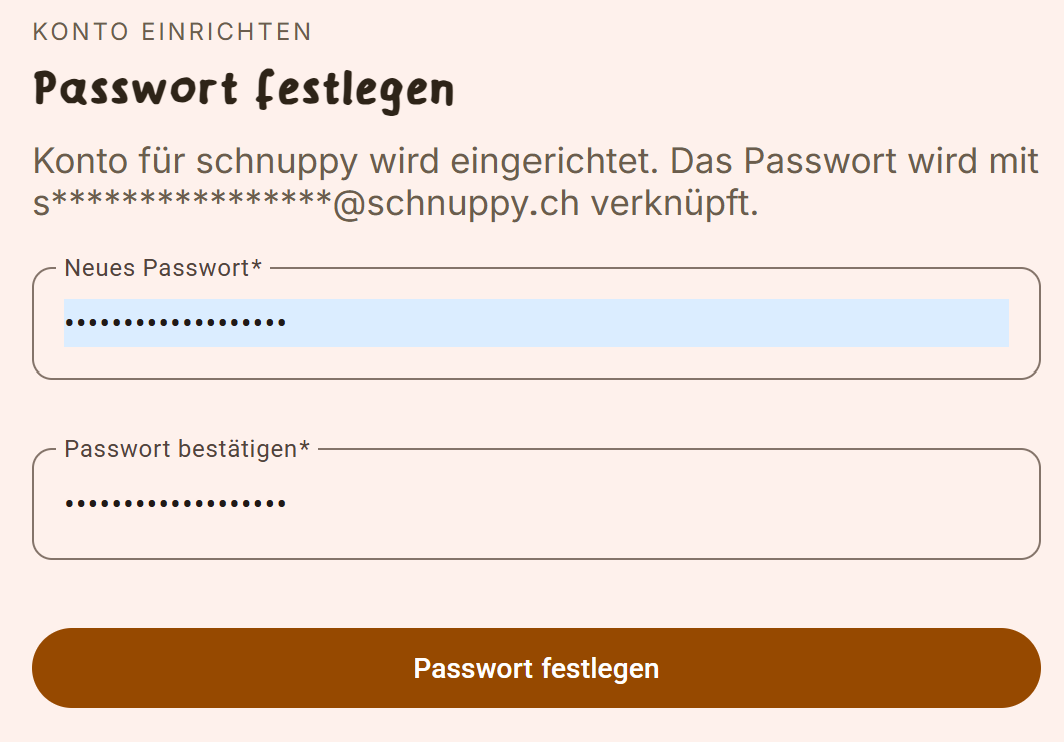
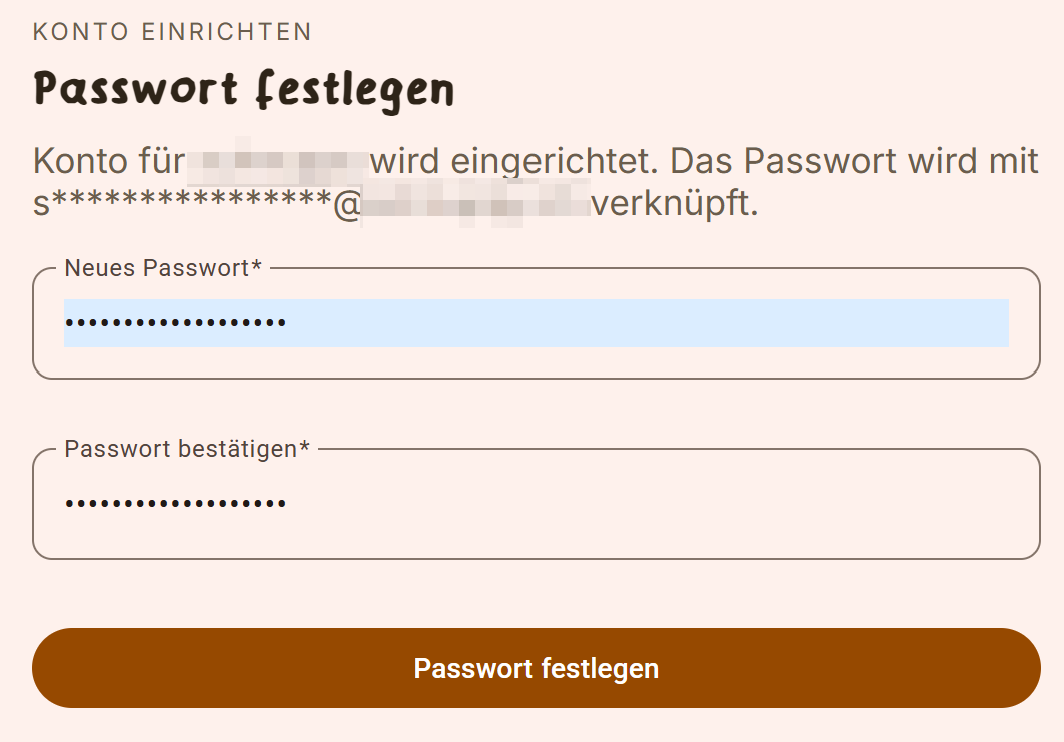
docs: update calendar invitations documentation and add new media assets

Changed region(s): [[0.1861, 0.186, 0.5583, 0.31]]

diff --git a/docs/architecture/calendar-invitations.md b/docs/architecture/calendar-invitations.md
@@ -350,6 +350,100 @@ lever to pull before assuming it's a server regression.
   this narrow cosmetic duplicate for silently dropping real invitations in
   the common case.
 
+- **Attendee responses only work via the emailed RSVP link — native
+  client Accept/Decline is deliberately suppressed.** `InvitationIcsService`
+  sets `Attendee.Rsvp = false` (not `true`) on every generated invitation.
+  Per RFC 5545, `RSVP=TRUE` is what makes a mail/calendar client (eM Client,
+  Outlook, Apple Mail) show its own native Accept/Decline prompt on an
+  invite. That native path sends an ICS `METHOD:REPLY` straight to the
+  organizer's own inbox — Processity has no inbound-email processing
+  anywhere (see the `inbox/` stub above), so any response given that way
+  was silently and permanently lost, with no error surfaced to either
+  party. `RSVP=FALSE` suppresses the native prompt so the emailed
+  Accept/Tentative/Decline links — the one path actually wired into
+  `RespondToInvitationByTokenCommandHandler` → `BridgeInvitationResponseToCalendarHandler`
+  → `AttendeeResponseChangedEventHandler` — are the only option offered.
+  Discovered 2026-08-29 debugging a real invitee response that never
+  showed up anywhere; that same investigation also fixed three
+  independent bugs blocking the *link* path itself, all now resolved:
+  - `PublicWebApp:BaseUrl` config key was never set anywhere, so the RSVP
+    link in the invitation email always rendered empty. (Superseded —
+    see the redesign note below: this became `PublicCalendarApp:BaseUrl`
+    pointing at a dedicated app, not the big Angular webapp.)
+  - The anonymous RSVP endpoints had no way to resolve which tenant schema
+    to query (no `[AllowAnonymous]`, and ApiGateway's
+    `AuthHeaderExtractionMiddleware` strips `X-Tenant-Identifier` from
+    external requests by design) — fixed via a new,
+    intentionally-non-trust-boundary `X-Public-Invitation-Tenant` header
+    read by `DirectTenantResolutionStrategy`.
+  - `RespondToInvitationCommandHandler`/`RespondToInvitationByTokenCommandHandler`/
+    `RespondToAppointmentInvitationCommandHandler` published
+    `InvitationResponseReceivedEvent` via bare `PublishAsync`, but both
+    subscribers (organizer notification, and the Calendar PARTSTAT bridge)
+    require the `AuthenticatedEvent<T>` envelope — every response was
+    silently crashing both subscribers. Fixed by switching to
+    `PublishWithAuthAsync`.
+  - Separately (Processity.Calendar): `AttendeeResponseChangedEventHandler`
+    updated `CalendarItemAttendee.PartStat` but never bumped the parent
+    `CalendarItem.UpdatedAt`, which `CalendarService.ComputeETag`/
+    `ComputeCollectionCTag` are keyed on — so even a successful PARTSTAT
+    update never changed the CalDAV ctag/ETag, and the organizer's own
+    CalDAV client (eM Client) never re-fetched the item to show it.
+  Building real inbound REPLY-email processing (IMAP polling, ICS
+  `METHOD:REPLY` parsing, matching back to `Invitation` by UID+attendee
+  email) was considered and deliberately rejected, 2026-08-29: it would
+  mean holding a mailbox credential/token per tenant, plus asking users to
+  configure IMAP access — too much operational and setup burden for what
+  it buys. **`RSVP=FALSE` does not fully solve this either** — confirmed
+  2026-08-29 by decoding a real sent ICS (`RSVP=FALSE` genuinely present)
+  and observing eM Client still show its native Accept/Decline UI anyway.
+  eM Client displays that prompt for any `ATTENDEE` line addressed to the
+  recipient regardless of the RSVP flag — unlike Outlook/Apple Mail, which
+  do respect `RSVP=FALSE` and hide it. Kept `RSVP=FALSE` anyway (reverting
+  to `TRUE` would only remove the suppression that *does* work for
+  compliant clients, with no upside). **Net state, permanent unless IMAP
+  ingestion is revisited**: eM Client's own native buttons always silently
+  swallow the response with no error to either party; the emailed
+  Accept/Tentative/Decline links are the only response path guaranteed to
+  work, for every mail client.
+- **RSVP redesigned to three direct email buttons + a dedicated
+  confirmation-only app, 2026-08-29.** Originally the email had one "Zu-
+  oder absagen" link to a full Angular page (in `Processity.WebApp.Angular`,
+  behind the embedded shell) that itself showed Accept/Decline/Tentative
+  buttons plus a note/propose-new-time form. Replaced because (a) a link
+  to a page-with-buttons requires an extra click past what the invitee's
+  mail client already renders for other invites, and (b) it lived inside
+  the big monorepo webapp for no functional reason. Now:
+  - The invitation email has three separate plain `<a href>` buttons
+    (Accept/Tentative/Decline in `DefaultTemplateSeeder.MeetingInvitationBody`,
+    placeholders `{AcceptLink}`/`{TentativeLink}`/`{DeclineLink}`), each
+    going straight to `{PublicCalendarApp:BaseUrl}/respond/{tenantId}/{token}?status=accepted|tentative|declined`.
+    Built in `InvitationSentNotificationHandler.BuildTemplateValues`.
+  - `PublicCalendarApp:BaseUrl` is `calendar.processity.ch` (`.dev`/
+    `.localdev`/`-uat.ch` per environment) — a small standalone Angular
+    app, `Processity.Calendar/webapp/projects/invitation-response`, with
+    its own `.docker/webapp-invitation-response/{dev,prod}` deploy tier
+    and Gitea workflows, entirely separate from
+    `Processity.WebApp.Angular` and from the `booking` project in this
+    same `webapp/` workspace.
+  - That app has no router, no forms, no interactive buttons of its own.
+    On load it parses `/respond/{tenantId}/{token}` + `?status=`, fires
+    the existing `POST communications-public/v1.0/invitations/respond`
+    once via plain `fetch()` (with the `X-Public-Invitation-Tenant`
+    header), and renders a static "danke für Ihre Antwort" / error
+    message. Nothing else. The note/propose-alternate-time capability the
+    old page had is gone — `RespondToInvitationByTokenCommandHandler`
+    still accepts `ProposedStartTime`/`ProposedEndTime`/`Note` on the API
+    contract, but no client currently sends them.
+  - `api.{env}` is derived client-side from `calendar.{env}` (hostname
+    string substitution) rather than being a build-time config — same
+    app image works unmodified across dev/prod.
+  - Requires `calendar.processity.ch` (etc.) in **both** ApiGateway's own
+    `Cors:AllowedOrigins` (`.docker/{env}/appsettings.json` — this is what
+    actually gates the browser's `fetch()`, since the call lands on
+    `api.processity.ch` i.e. the gateway) **and** Backend's `Cors:AllowedOrigins`
+    for the same reason `PublicWebApp` needed it before.
+
 ## Key files
 
 **Processity.Calendar**
